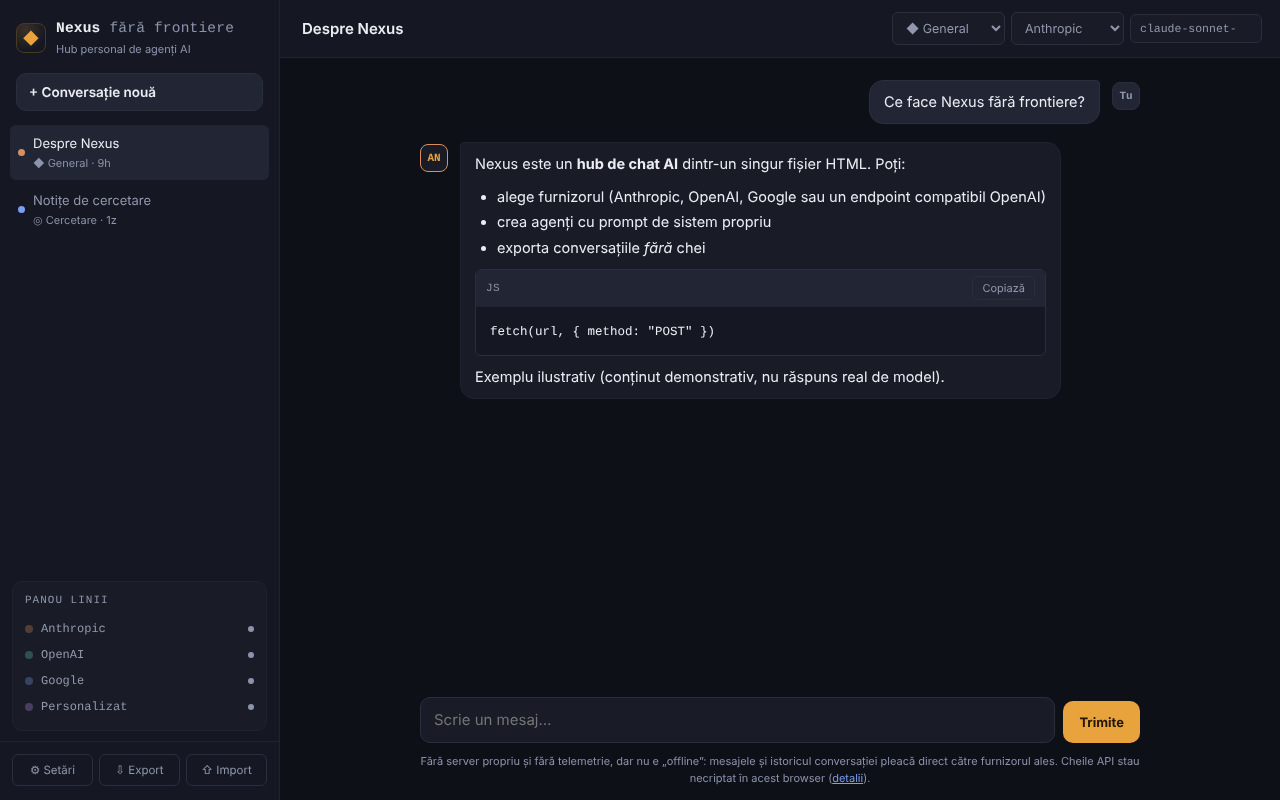
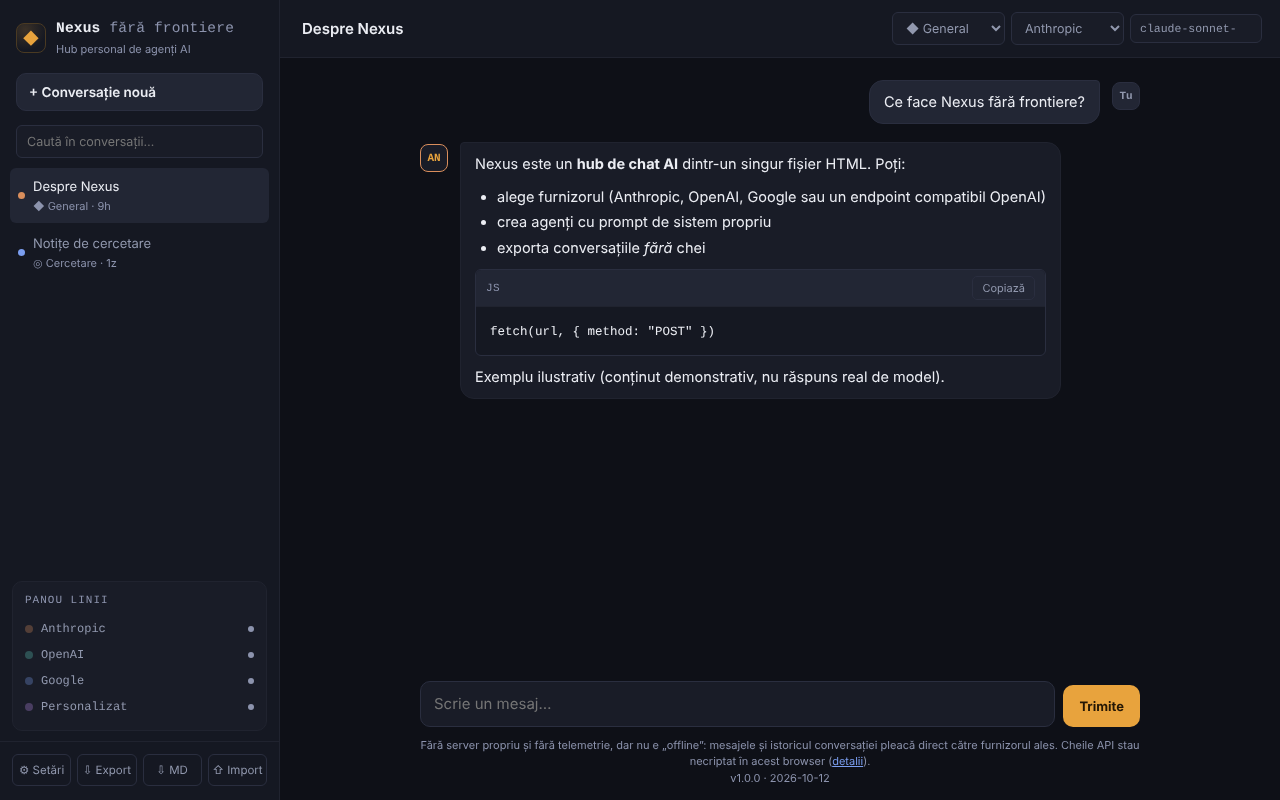
Versiune și dată ultimă actualizare (12 octombrie 2026) în aplicație și README
Claude-Session: https://claude.ai/code/session_01D2sCEb3hy3nutYexhUfQFs

Changed region(s): [[0.3125, 0.8438, 0.9062, 1.0], [0.0, 0.1562, 0.125, 0.3438], [0.0312, 0.9375, 0.1875, 0.9688]]

diff --git a/index.html b/index.html
@@ -2,6 +2,8 @@
 <html lang="ro">
 <head>
 <meta charset="UTF-8">
+<meta name="application-version" content="1.0.0">
+<meta name="last-updated" content="2026-10-12">
 <meta name="viewport" content="width=device-width, initial-scale=1.0, viewport-fit=cover">
 <title>Nexus fără frontiere — hub de agenți AI</title>
 <meta name="description" content="Hub personal de chat AI într-un singur fișier HTML: te conectezi direct, din browser, la API-urile Anthropic, OpenAI, Google sau la un endpoint compatibil OpenAI. Fără server propriu, fără telemetrie; cheile rămân în browserul tău.">
@@ -484,7 +486,7 @@ a{color:var(--line-google)}
       <button type="submit" class="btn-send" id="btn-send">Trimite</button>
       <button type="button" class="btn-stop hidden" id="btn-stop">Oprește</button>
     </form>
-    <p class="privacy-note">Fără server propriu și fără telemetrie, dar nu e „offline”: mesajele și istoricul conversației pleacă direct către furnizorul ales. Cheile API stau necriptat în acest browser (<a href="#" id="link-privacy">detalii</a>).</p>
+    <p class="privacy-note">Fără server propriu și fără telemetrie, dar nu e „offline”: mesajele și istoricul conversației pleacă direct către furnizorul ales. Cheile API stau necriptat în acest browser (<a href="#" id="link-privacy">detalii</a>).<br><span id="app-version">v1.0.0 · 2026-10-12</span></p>
   </main>
 </div>
 

diff --git a/README.md b/README.md
@@ -1,10 +1,10 @@
 # Nexus fără frontiere
 
+**Versiune:** 1.0.0 · **Ultima actualizare:** 12 octombrie 2026
+
 Hub personal de chat AI într-un singur fișier HTML: vorbești direct din browser cu Anthropic, OpenAI, Google sau cu un endpoint compatibil OpenAI. **Nu este o aplicație offline** și cheile tale stau în browser, necriptate — citește secțiunea „Confidențialitate și rețea”.
 
 **Live:** https://chiuta.github.io/Nexus-fara-frontiere/
-
-Ultima actualizare: 11 octombrie 2026
 
 ![Captură de ecran (conversație demonstrativă)](screenshot.png)
 
@@ -84,6 +84,9 @@ Pentru Ollama: pornește-l cu variabila `OLLAMA_ORIGINS` setată la originea pag
 Descarcă `index.html` și deschide-l în browser. Pagina pornește fără internet, dar chat-ul cere rețea (sau un model local, ex. Ollama pe `localhost`).
 
 ## Istoric / Changelog
+
+### 1.0.0 — 12 octombrie 2026
+- Versiunea și data ultimei actualizări sunt afișate în aplicație (sub câmpul de mesaj).
 
 ### 11.10.2026 (a treia actualizare) — 11 octombrie 2026
 - Corectat: dacă trimiteai primul mesaj fără cheie API (sau fără endpoint/model), textul tastat se pierdea; acum rămâne în câmpul de scris, iar notificarea spune asta.
